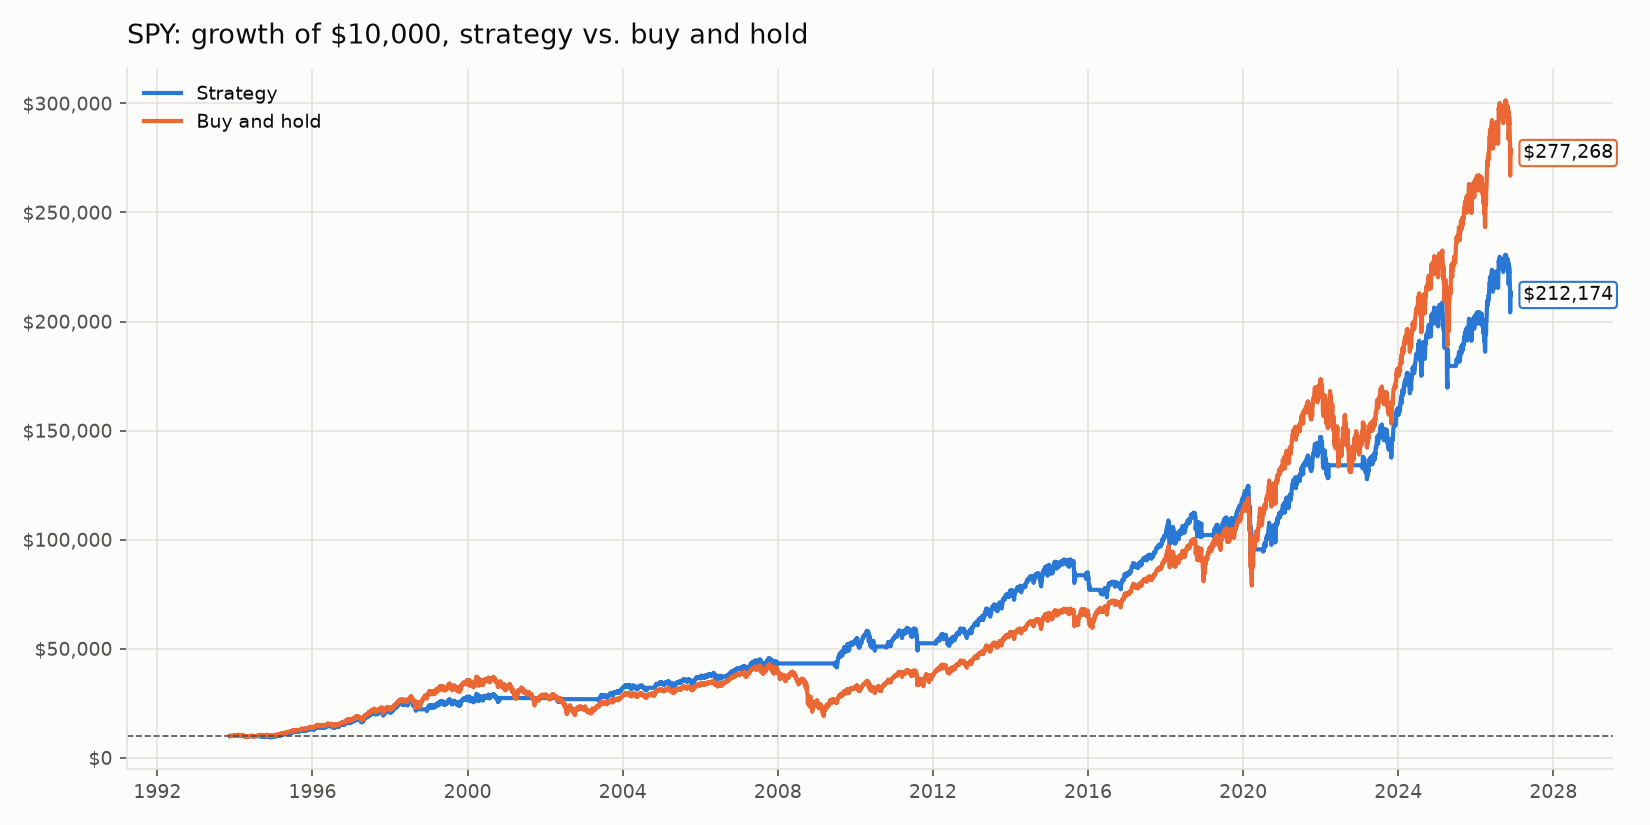
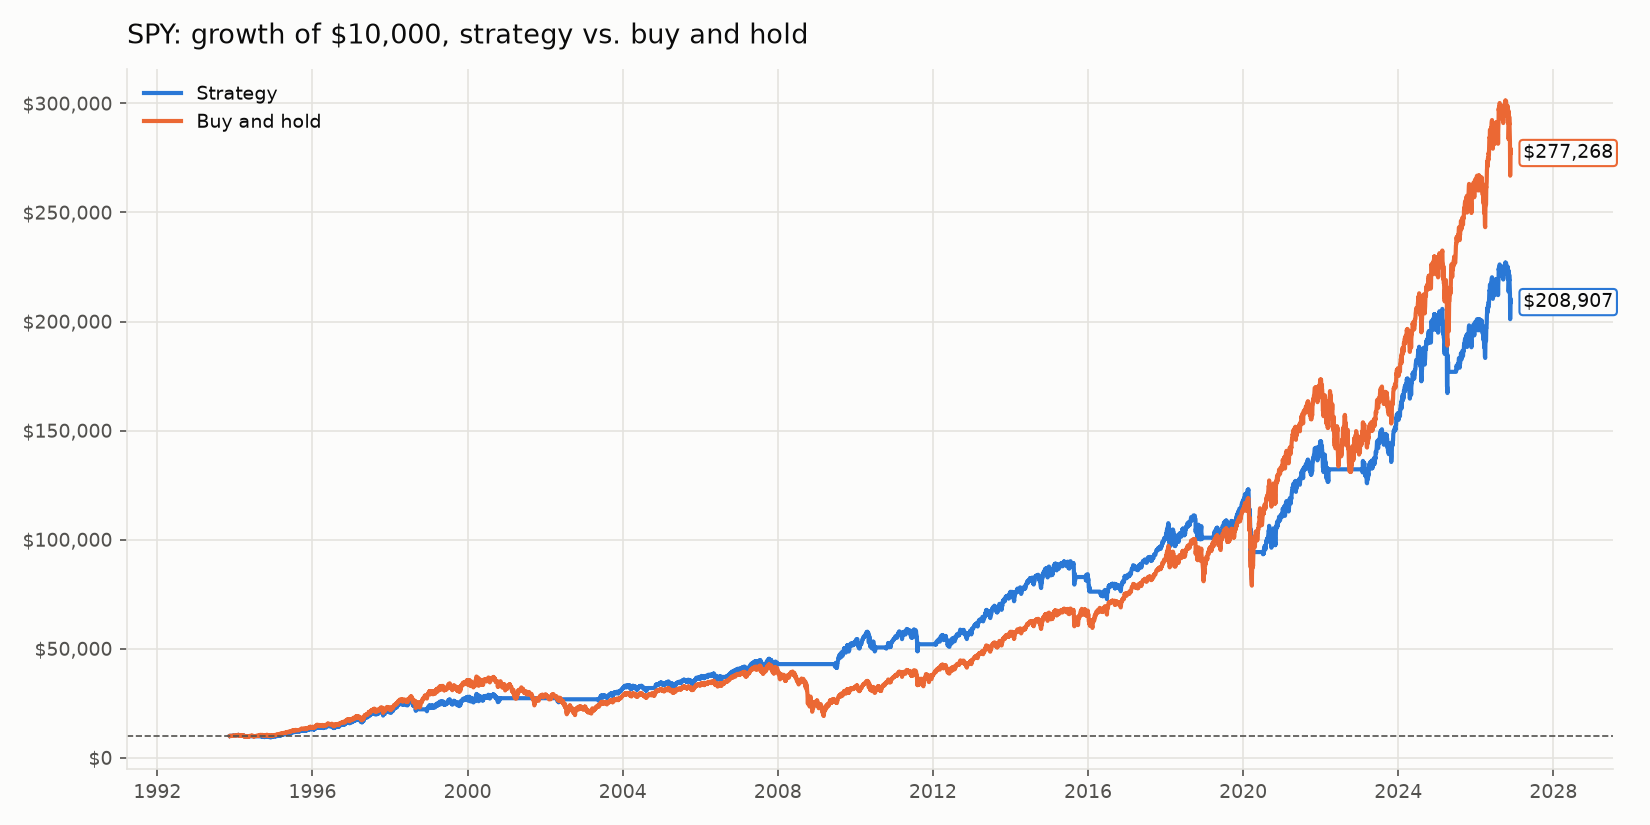
Document Monte Carlo results and costs in README

diff --git a/README.md b/README.md
@@ -6,23 +6,24 @@ A small, readable Python tool for **backtesting** trading strategies, built for 
 Mathematical Investment and Trading Society (MITS). A backtest asks: *if I had followed
 this rule in the past, how would it have done?*
 
-Version 1 tests a classic **moving-average crossover** strategy and compares it with
-simply buying and holding the stock over the same period.
+It tests a classic **moving-average crossover** strategy, compares it with simply
+buying and holding the stock over the same period, and uses a **Monte Carlo
+simulation** to estimate the range of outcomes and drawdowns you could face going forward.
 
 ## Example: SPY, 1993–2026
 
-`python backtest.py --csv data/SPY.csv --short 50 --long 200`
+`python backtest.py --csv data/SPY.csv --short 50 --long 200 --cost-bps 5 --monte-carlo 2000`
 
 | Metric                | 50/200 Crossover | Buy & Hold |
 |-----------------------|-----------------:|-----------:|
-| Total Return          |        2,021.7%  |   2,672.7% |
-| CAGR                  |           9.70%  |     10.59% |
+| Total Return          |        1,989.1%  |   2,672.7% |
+| CAGR                  |           9.65%  |     10.59% |
 | Max Drawdown          |         -33.72%  |    -55.19% |
 | Annualized Volatility |          13.87%  |     18.72% |
-| Sharpe Ratio          |            0.74  |       0.63 |
+| Sharpe Ratio          |            0.73  |       0.63 |
 
-*31 trades, invested 77% of the time. Data: Yahoo Finance (dividend-adjusted), 1993-11-11
-to 2026-11-25.*
+*31 trades, invested 77% of the time, 5 bps (0.05%) trading cost per trade. Data: Yahoo
+Finance (dividend-adjusted), 1993-11-11 to 2026-11-25.*
 
 **Takeaway:** the crossover strategy ended with less money than buy-and-hold, but it
 avoided most of the 2008 crash, so its worst drawdown was much smaller and its
@@ -31,6 +32,43 @@ they trade some return for a smoother ride.
 
 ![Price with moving averages](docs/images/SPY_price_moving_averages.png)
 ![Growth of $10,000](docs/images/SPY_equity_curve.png)
+
+## Monte Carlo risk simulation
+
+A backtest shows only **one** path: the one history happened to take. A different
+sequence of good and bad years could have produced very different results. The Monte Carlo
+simulation builds thousands of alternative 10-year histories out of pieces of the real
+one and asks what range of outcomes is plausible.
+
+**How it works (block bootstrap):** chop the historical daily returns into random
+20-day chunks and glue them together into new 10-year paths. Chunks are used instead of
+single days because markets have streaks: crashes and calm periods cluster, and
+shuffling individual days would make crashes look milder than they really are. The
+strategy and buy-and-hold are resampled with the **same random dates**, so in every
+simulated history they face exactly the same market.
+
+| 2,000 simulated 10-year paths, $10,000 start | Strategy | Buy & Hold |
+|---|---:|---:|
+| Final value: 5th percentile (a bad outcome)  | $13,549 | $11,800 |
+| Final value: median                           | $25,575 | $28,204 |
+| Final value: 95th percentile (a great outcome) | $46,493 | $62,518 |
+| Max drawdown: median                          | -22.1% | -31.8% |
+| Max drawdown: 5th percentile (a bad outcome)  | -38.3% | -50.0% |
+| Chance of losing money after 10 years         | 0.9% | 2.8% |
+| Chance of a drawdown of 30% or worse          | 20.4% | 57.9% |
+
+The strategy ended ahead of buy-and-hold in 38.9% of simulations. The simulation confirms
+the single backtest: buy-and-hold has the higher typical return, but the crossover
+strategy narrows the range of outcomes, so its bad cases are less bad and deep drawdowns
+are about a third as likely.
+
+![Monte Carlo paths](docs/images/SPY_monte_carlo_paths.png)
+![Monte Carlo drawdowns](docs/images/SPY_monte_carlo_drawdowns.png)
+
+**A limitation to keep in mind:** the simulation resamples the strategy's *realized*
+daily returns. It does not re-run the moving-average rule on new simulated prices. So it
+measures how sensitive the results are to the *order* of good and bad periods, not
+whether the rule itself would keep working in a different kind of market.
 
 ## How the strategy works
 
@@ -91,6 +129,11 @@ least `Date` and `Close` columns. `Adj Close` is used when it is present.
 | `--long`       | 200      | Long moving-average window (days)     |
 | `--capital`    | 10000    | Starting amount in dollars            |
 | `--output-dir` | output   | Where the PNG charts are saved        |
+| `--cost-bps`   | 0        | Trading cost per buy/sell in basis points (5 = 0.05%) |
+| `--monte-carlo`| 0 (off)  | Number of Monte Carlo paths, e.g. 1000 |
+| `--mc-years`   | 10       | Length of each simulated path (years) |
+| `--block-size` | 20       | Days per resampled block (1 = independent days) |
+| `--seed`       | 42       | Random seed, so results are repeatable |
 
 Run the tests with:
 
@@ -120,6 +163,7 @@ mits_backtester/
     strategies.py         compute_signals(): the moving-average crossover
     engine.py             run_backtest(): signals -> daily returns -> equity curves
     metrics.py            compute_metrics() and the individual metric functions
+    montecarlo.py         run_monte_carlo(): block-bootstrap risk simulation
     plotting.py           plot_results(): saves the two PNG charts
 scripts/
     download_data.py      Download prices from Yahoo Finance
@@ -133,9 +177,13 @@ function in `strategies.py`.
 
 ## Limitations
 
-Version 1 makes some simplifying assumptions:
+The backtester makes some simplifying assumptions:
 
-- No trading commissions, bid/ask spreads, or slippage.
+- Trading costs are a flat percentage per trade (`--cost-bps`). Taxes are ignored.
+- Trades are assumed to fill at the closing price of the signal day, so the new position
+  earns the *next* day's return. In practice that means trading right at the close
+  (e.g. a market-on-close order). Trading at the next morning's open would give slightly
+  different results because of overnight price gaps.
 - Cash earns 0% interest.
 - The portfolio is either 100% in the stock or 100% in cash.
 - A single backtest on one historical path. Past performance doesn't guarantee future
@@ -143,15 +191,16 @@ Version 1 makes some simplifying assumptions:
 
 ## Future work
 
-- **Monte Carlo risk simulation:** resample historical returns to see the range of
-  possible outcomes and how likely large drawdowns are, instead of relying on one path.
+- ~~**Monte Carlo risk simulation**~~: done in v1.1 (see above).
 - **User-defined strategies:** choose or plug in strategies (e.g. RSI, momentum) from the
   command line without editing the engine.
 - **Multiple tickers:** backtest a portfolio of several stocks, or compare one strategy
   across many tickers at once.
 - **Simple web interface:** a page where club members can upload a CSV, set parameters,
   and see the charts and metrics without using the terminal.
-- Transaction costs and a non-zero risk-free rate.
+- **Parameter robustness:** test a grid of short/long windows to see whether 50/200 is
+  special or just lucky (and guard against overfitting with out-of-sample testing).
+- A non-zero risk-free rate, so cash earns interest.
 
 ## Disclaimer
 
